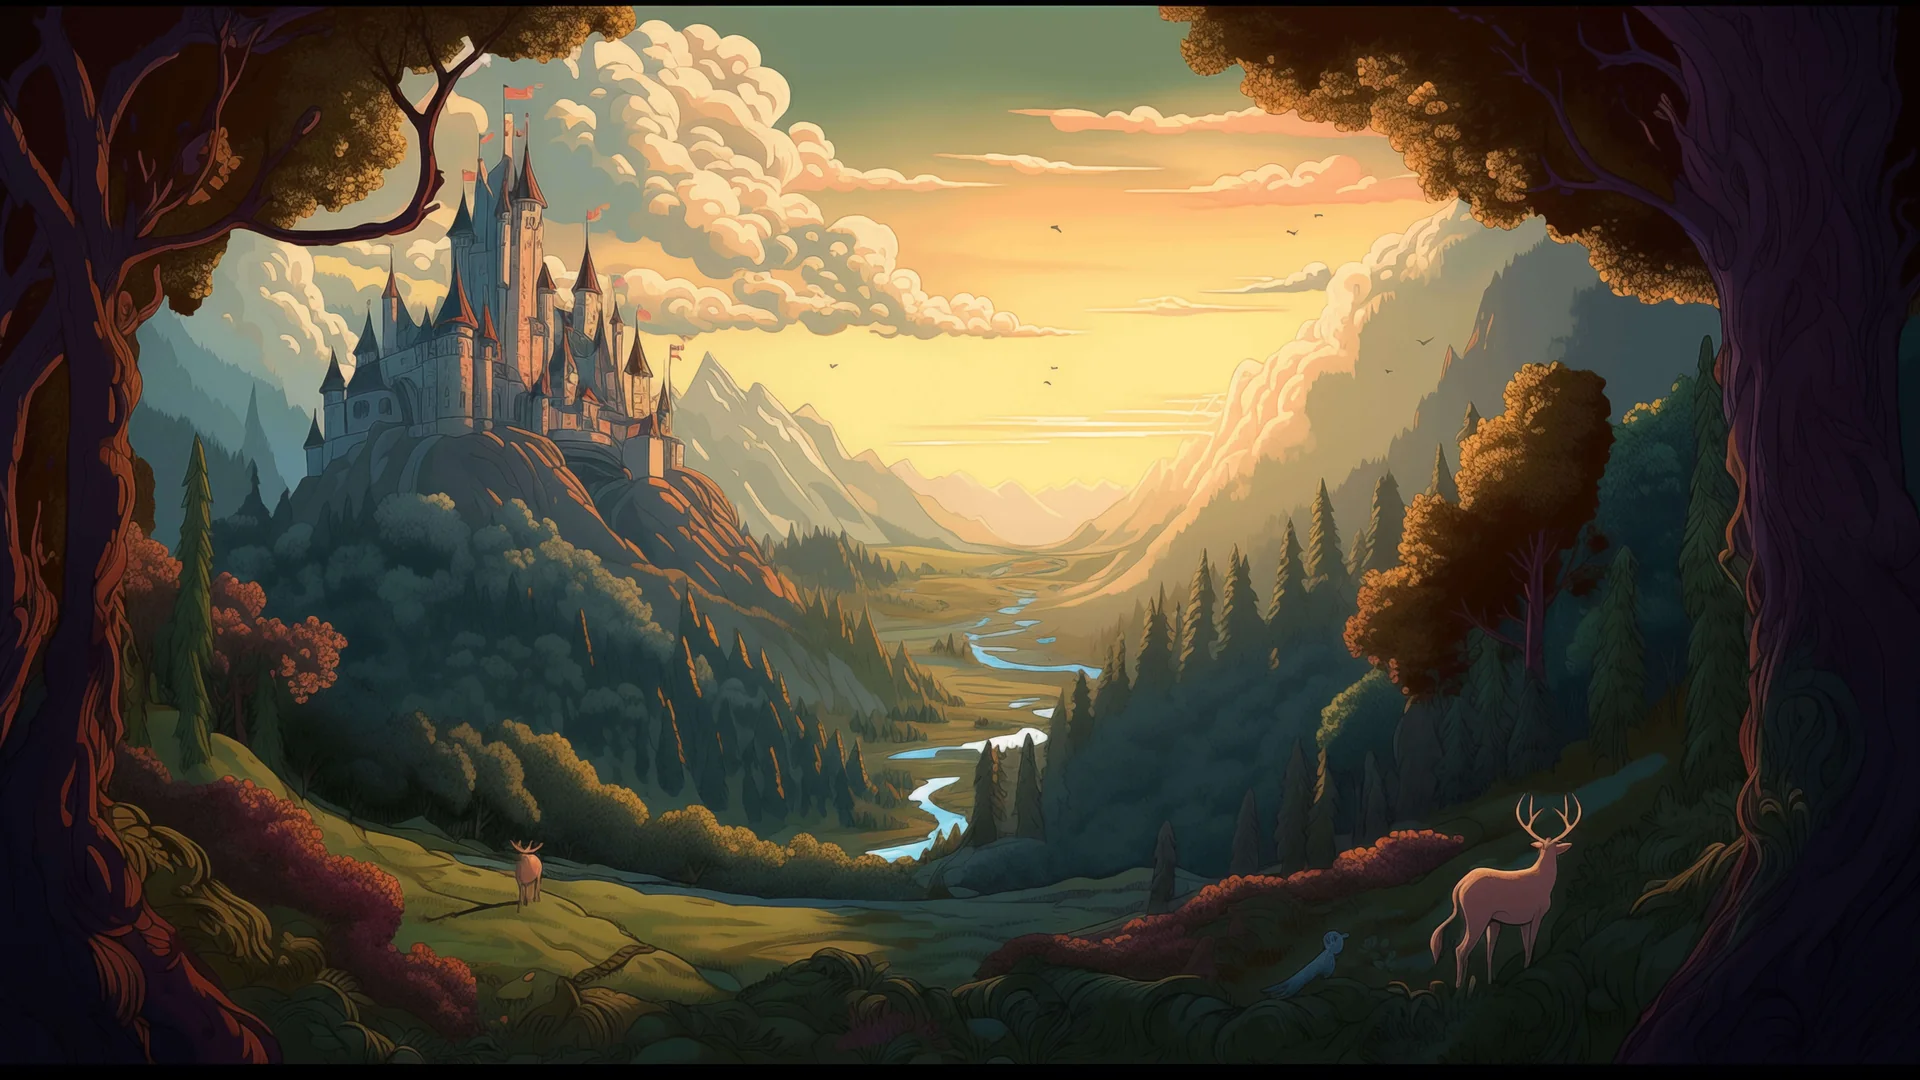
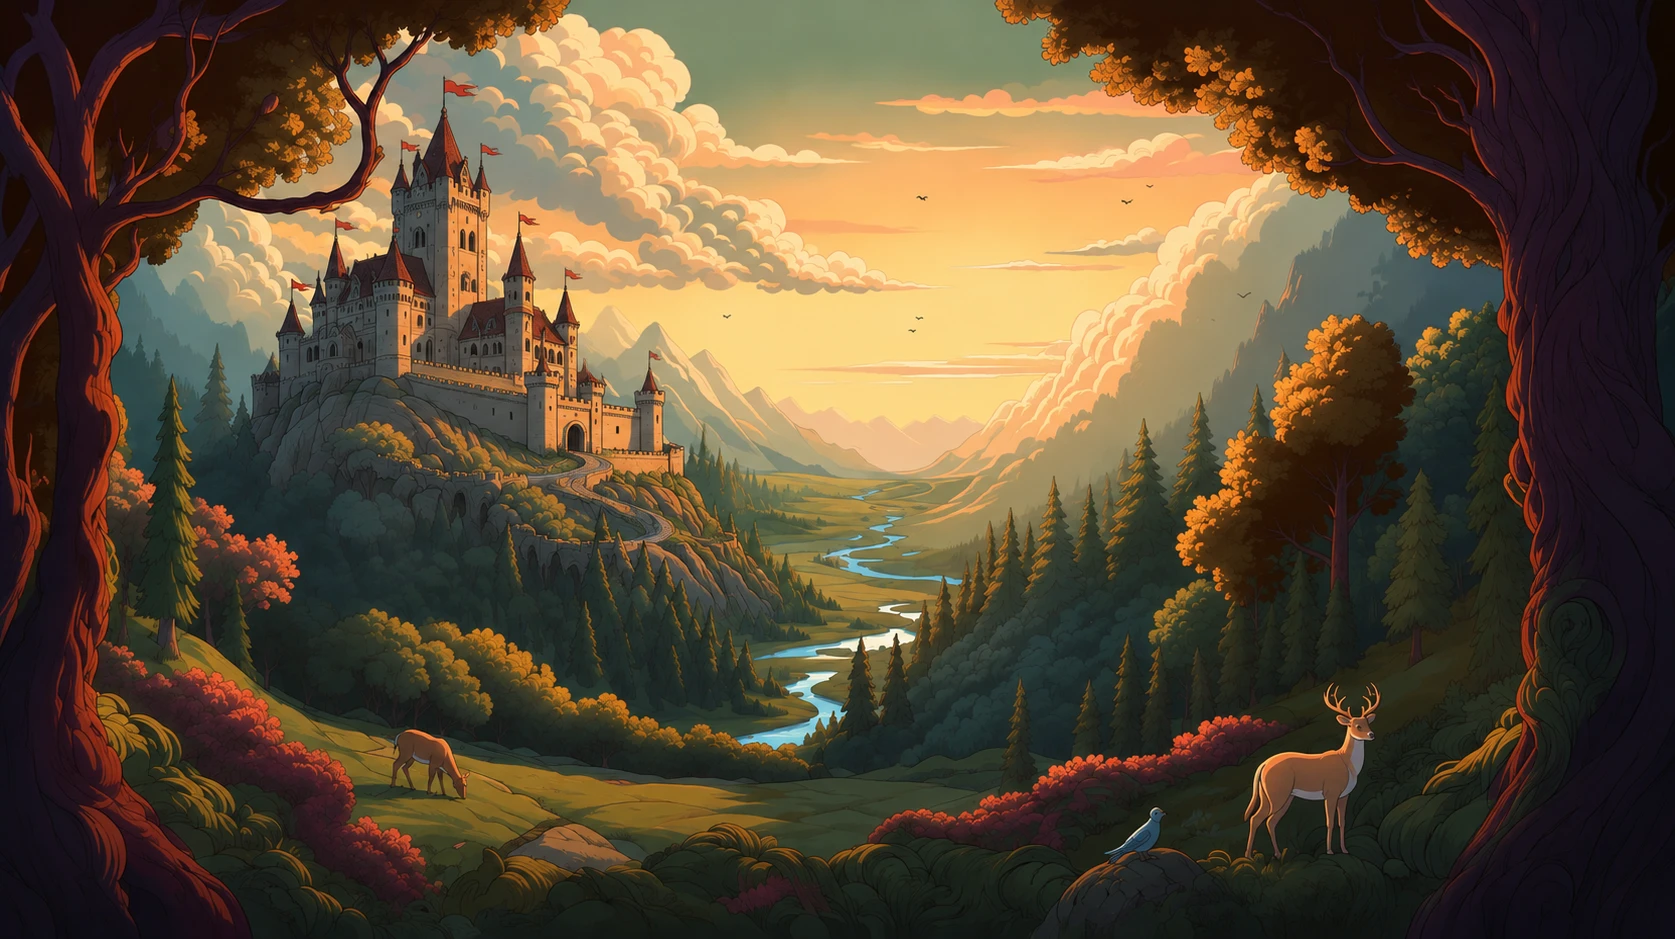
feat: new castle hero art and Steam wishlist call to action
Swap in the repainted castle valley art (its sunset gap aligns with the
animated sunbeams) and add a "Wishlist on Steam" secondary button with
the official Steam mark beside "Become a Founding Player" in the hero
and the bottom signup section, linking to Haven's Steam page
(app 3180380).

diff --git a/index.html b/index.html
@@ -523,6 +523,50 @@
     .cta-primary::before { display: none; }
   }
 
+  .hero-ctas {
+    display: flex;
+    align-items: center;
+    justify-content: center;
+    gap: 14px;
+    flex-wrap: wrap;
+  }
+
+  /* Steam wishlist: a dark glass secondary button with the Steam mark */
+  .cta-steam {
+    display: inline-flex;
+    align-items: center;
+    justify-content: center;
+    gap: 10px;
+    background: rgba(16, 24, 34, 0.82);
+    color: var(--text-primary);
+    border: 1px solid rgba(255, 255, 255, 0.28);
+    font-family: 'Trajan Pro', serif;
+    font-size: 14px;
+    font-weight: 700;
+    letter-spacing: 1.5px;
+    text-transform: uppercase;
+    padding: 15px 30px;
+    border-radius: 2px;
+    text-decoration: none;
+    backdrop-filter: blur(6px);
+    -webkit-backdrop-filter: blur(6px);
+    transition: all 0.3s;
+  }
+
+  .cta-steam svg {
+    width: 20px;
+    height: 20px;
+    fill: currentColor;
+    flex-shrink: 0;
+  }
+
+  .cta-steam:hover {
+    border-color: var(--gold);
+    color: var(--gold-light);
+    transform: translateY(-1px);
+    box-shadow: 0 4px 24px rgba(0, 0, 0, 0.35);
+  }
+
   .hero-scroll-hint {
     position: absolute;
     bottom: 32px;
@@ -1884,6 +1928,8 @@
 
     .cta-primary { padding: 15px 32px; font-size: 14px; letter-spacing: 1.5px; }
 
+    .cta-steam { padding: 14px 24px; font-size: 13px; letter-spacing: 1px; }
+
     .section-title { font-size: 26px; }
 
     .cta-benefits { gap: 16px 28px; }
@@ -1980,7 +2026,13 @@
       <span class="platforms-divider" aria-hidden="true"></span>
       <span class="platforms-soon"><span class="platforms-label">Coming soon</span> Xbox &middot; PlayStation &middot; Switch &middot; Android</span>
     </p>
-    <a href="https://play.immutable.com/games/haven/" class="cta-primary" target="_blank" rel="noopener">Become a Founding Player</a>
+    <div class="hero-ctas">
+      <a href="https://play.immutable.com/games/haven/" class="cta-primary" target="_blank" rel="noopener">Become a Founding Player</a>
+      <a href="https://store.steampowered.com/app/3180380/Haven/" class="cta-steam" target="_blank" rel="noopener" aria-label="Add Haven to your Steam wishlist">
+        <svg viewBox="0 0 24 24" aria-hidden="true"><path d="M11.979 0C5.678 0 .511 4.86.022 11.037l6.432 2.658c.545-.371 1.203-.59 1.912-.59.063 0 .125.004.188.006l2.861-4.142V8.91c0-2.495 2.028-4.524 4.524-4.524 2.494 0 4.524 2.031 4.524 4.527s-2.03 4.525-4.524 4.525h-.105l-4.076 2.911c0 .052.004.105.004.159 0 1.875-1.515 3.396-3.39 3.396-1.635 0-3.016-1.173-3.331-2.727L.436 15.27C1.862 20.307 6.486 24 11.979 24c6.627 0 11.999-5.373 11.999-12S18.605 0 11.979 0zM7.54 18.21l-1.473-.61c.262.543.714.999 1.314 1.25 1.297.539 2.793-.076 3.332-1.375.263-.63.264-1.319.005-1.949s-.75-1.121-1.377-1.383c-.624-.26-1.29-.249-1.878-.03l1.523.63c.956.4 1.409 1.5 1.009 2.455-.397.957-1.497 1.41-2.454 1.012H7.54zm11.415-9.303c0-1.662-1.353-3.015-3.015-3.015-1.665 0-3.015 1.353-3.015 3.015 0 1.665 1.35 3.015 3.015 3.015 1.663 0 3.015-1.35 3.015-3.015zm-5.273-.005c0-1.252 1.013-2.266 2.265-2.266 1.249 0 2.266 1.014 2.266 2.266 0 1.251-1.017 2.265-2.266 2.265-1.253 0-2.265-1.014-2.265-2.265z"/></svg>
+        <span>Wishlist on Steam</span>
+      </a>
+    </div>
   </div>
   <div class="hero-scroll-hint">Scroll</div>
 </section>
@@ -2172,7 +2224,13 @@
     <div class="cta-benefit"><span class="check">&#10003;</span> Discord access</div>
     <div class="cta-benefit"><span class="check">&#10003;</span> Founding Player status</div>
   </div>
-  <a href="https://play.immutable.com/games/haven/" class="cta-primary" target="_blank" rel="noopener">Become a Founding Player</a>
+  <div class="hero-ctas">
+    <a href="https://play.immutable.com/games/haven/" class="cta-primary" target="_blank" rel="noopener">Become a Founding Player</a>
+    <a href="https://store.steampowered.com/app/3180380/Haven/" class="cta-steam" target="_blank" rel="noopener" aria-label="Add Haven to your Steam wishlist">
+      <svg viewBox="0 0 24 24" aria-hidden="true"><path d="M11.979 0C5.678 0 .511 4.86.022 11.037l6.432 2.658c.545-.371 1.203-.59 1.912-.59.063 0 .125.004.188.006l2.861-4.142V8.91c0-2.495 2.028-4.524 4.524-4.524 2.494 0 4.524 2.031 4.524 4.527s-2.03 4.525-4.524 4.525h-.105l-4.076 2.911c0 .052.004.105.004.159 0 1.875-1.515 3.396-3.39 3.396-1.635 0-3.016-1.173-3.331-2.727L.436 15.27C1.862 20.307 6.486 24 11.979 24c6.627 0 11.999-5.373 11.999-12S18.605 0 11.979 0zM7.54 18.21l-1.473-.61c.262.543.714.999 1.314 1.25 1.297.539 2.793-.076 3.332-1.375.263-.63.264-1.319.005-1.949s-.75-1.121-1.377-1.383c-.624-.26-1.29-.249-1.878-.03l1.523.63c.956.4 1.409 1.5 1.009 2.455-.397.957-1.497 1.41-2.454 1.012H7.54zm11.415-9.303c0-1.662-1.353-3.015-3.015-3.015-1.665 0-3.015 1.353-3.015 3.015 0 1.665 1.35 3.015 3.015 3.015 1.663 0 3.015-1.35 3.015-3.015zm-5.273-.005c0-1.252 1.013-2.266 2.265-2.266 1.249 0 2.266 1.014 2.266 2.266 0 1.251-1.017 2.265-2.266 2.265-1.253 0-2.265-1.014-2.265-2.265z"/></svg>
+      <span>Wishlist on Steam</span>
+    </a>
+  </div>
 </div>
 
 </main>
